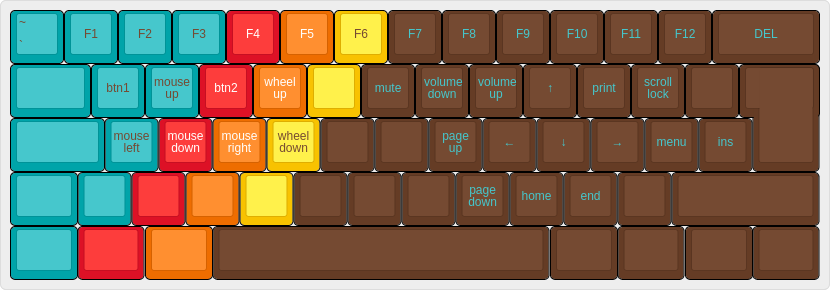
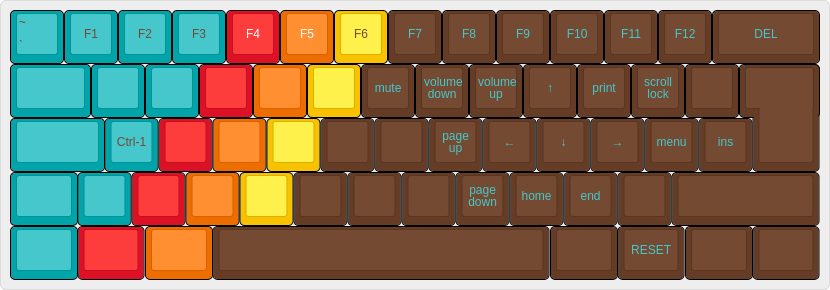
improve alt-gr layer

diff --git a/keyboards/dz60/keymaps/fehmer/keymap.c b/keyboards/dz60/keymaps/fehmer/keymap.c
@@ -7,6 +7,7 @@
 enum dz60_layers {
   _QWERTY,
   _FN,
+  _ALTGR,
 };
 
 const uint16_t PROGMEM keymaps[][MATRIX_ROWS][MATRIX_COLS] = {
@@ -29,16 +30,16 @@ TD(TD_ESC_CAPS), KC_1,     KC_2,    KC_3,    KC_4,    KC_5,    KC_6,    KC_7,   
     KC_TAB,      KC_Q,     KC_W,    KC_E,    KC_R,    KC_T,    KC_Y,    KC_U,    KC_I,    KC_O,    KC_P,     KC_LBRC,  KC_RBRC,
     FNL,         KC_A,     KC_S,    KC_D,    KC_F,    KC_G,    KC_H,    KC_J,    KC_K,    KC_L,    KC_SCLN,  KC_QUOT,  KC_NUHS, KC_ENT,
     KC_LSFT,     KC_NUBS,  KC_Z,    KC_X,    KC_C,    KC_V,    KC_B,    KC_N,    KC_M,    KC_COMM, KC_DOT,   KC_SLSH,  KC_RSFT,
-    OSM_LCTL,    OSM_LGUI, OSM_LALT,                        KC_SPC,                                OSM_RALT, OSM_RGUI, FNL,     OSM_RCTL
+    OSM_LCTL,    OSM_LGUI, OSM_LALT,                        KC_SPC,                                MO(_ALTGR), OSM_RGUI, FNL,     OSM_RCTL
   ),
 
   /* Keymap _FL: Function Layer
    * ,-----------------------------------------------------------.
    * | ^°| F1| F2| F3| F4| F5| F6| F7| F8| F9|F10|F11|F12|    DEL|
    * |-----------------------------------------------------------|
-   * |     |MB1|MSU|MB2|MWU|   |MUT|V-D|V-U| UP|PSC| SC|BRK|     |
+   * |     |   |   |   |   |   |MUT|V-D|V-U| UP|PSC| SC|BRK|     |
    * |-----------------------------------------------------------|
-   * |      |CT1|MSD|MSR|MWD|   |   |PGU|LFT|DWN|RGT|APP|INS|    |
+   * |      |CT1|   |   |   |   |   |PGU|LFT|DWN|RGT|APP|INS|    |
    * |-----------------------------------------------------------|
    * |    |   |   |   |   |   |   |   |PGD|HOM|END|   |          |
    * |-----------------------------------------------------------|
@@ -47,9 +48,30 @@ TD(TD_ESC_CAPS), KC_1,     KC_2,    KC_3,    KC_4,    KC_5,    KC_6,    KC_7,   
    */
   [_FN] = LAYOUT_60_iso(
     KC_GRAVE, KC_F1,   KC_F2,   KC_F3,   KC_F4,   KC_F5,   KC_F6,   KC_F7,   KC_F8,   KC_F9,   KC_F10,   KC_F11,  KC_F12,  KC_DEL,
-    _______,  KC_BTN1, KC_MS_U, KC_BTN2, KC_WH_U, _______, KC_MUTE, KC_VOLD, KC_VOLU, KC_UP,   KC_PSCR,  KC_SLCK, KC_PAUS,
-    _______,  C(KC_1), KC_MS_D, KC_MS_R, KC_WH_D, _______, _______, KC_PGUP, KC_LEFT, KC_DOWN, KC_RIGHT, KC_APP,  KC_INS , _______,
+    _______,  _______, _______, _______, _______, _______, KC_MUTE, KC_VOLD, KC_VOLU, KC_UP,   KC_PSCR,  KC_SLCK, KC_PAUS,
+    _______,  C(KC_1), _______, _______, _______, _______, _______, KC_PGUP, KC_LEFT, KC_DOWN, KC_RIGHT, KC_APP,  KC_INS , _______,
     _______,  _______, RGB_TOG, RGB_MOD, RGB_VAI, RGB_VAD, RGB_M_X , _______, KC_PGDN, KC_HOME, KC_END,   _______, _______,
     _______,  _______, _______,                   _______,                                     _______,  RESET, _______,  _______
+  ),
+
+  /* Keymap _ALTGR: alt-gr Layer
+   * ,-----------------------------------------------------------.
+   * |   |   |   |   |   |   |   |   |   |   |   |   |   |       |
+   * |-----------------------------------------------------------|
+   * |     |   |   |   |   |   |   |   |   |   |   |   |   |     |
+   * |-----------------------------------------------------------|
+   * |      |   |   |   |   |   |   |   |   |   |   |   |   |    |
+   * |-----------------------------------------------------------|
+   * |    |   |   |   |   |   |   |   |   |   |   |   |          |
+   * |-----------------------------------------------------------|
+   * |    |    |    |                        |    |     |    |   |
+   * `-----------------------------------------------------------'
+   */
+  [_ALTGR] = LAYOUT_60_iso(
+    XXXXXXX,ALGR(KC_1),ALGR(KC_2),ALGR(KC_3),ALGR(KC_4),ALGR(KC_5),ALGR(KC_6),ALGR(KC_7),ALGR(KC_8),ALGR(KC_9),ALGR(KC_0),ALGR(KC_MINS),ALGR(KC_EQL), XXXXXXX,
+    XXXXXXX,ALGR(KC_Q),XXXXXXX,ALGR(KC_E), XXXXXXX, XXXXXXX, XXXXXXX, XXXXXXX, S(KC_8), S(KC_9), XXXXXXX, XXXXXXX, ALGR(KC_RBRC),
+    XXXXXXX, XXXXXXX, XXXXXXX, XXXXXXX, XXXXXXX, XXXXXXX, XXXXXXX, XXXXXXX, ALGR(KC_7), ALGR(KC_0), XXXXXXX, XXXXXXX, XXXXXXX, XXXXXXX,
+    XXXXXXX, ALGR(KC_NUBS), XXXXXXX, XXXXXXX, XXXXXXX, XXXXXXX, XXXXXXX, XXXXXXX, XXXXXXX, ALGR(KC_8), ALGR(KC_9), XXXXXXX, XXXXXXX,
+    XXXXXXX, XXXXXXX, XXXXXXX,                   XXXXXXX,                                     _______, XXXXXXX, XXXXXXX, XXXXXXX
   ),
 };

diff --git a/keyboards/dz60/keymaps/fehmer/readme.md b/keyboards/dz60/keymaps/fehmer/readme.md
@@ -4,13 +4,12 @@ Simplified layout based on German qwertz layout.
 
 Features:
 
-- one-shot modifiers(except shift). Allows to press keys after each other instead of simultaneous. E.g. `ctrl` and then `s` to save a file
 - dual function keys using double tab
     + double tab escape for caps-lock
 - F-keys on the number keys
 - Arrow keys on "oklö" on the function layer
-- Mouse support on "wasd"
 - Access bootloader with left-FN and right-FN
+- Easy access to `(),{},[]` on the Alt-Gr layer
 
 ## build and flash
 
@@ -28,3 +27,7 @@ sudo make dz60:fehmer:dfu
 ### FN
 
 ![Layer FN](docs/layer-fn1.png)
+
+### Alt-Gr
+
+![Layer ALTGR](docs/layer-altgr.png)
